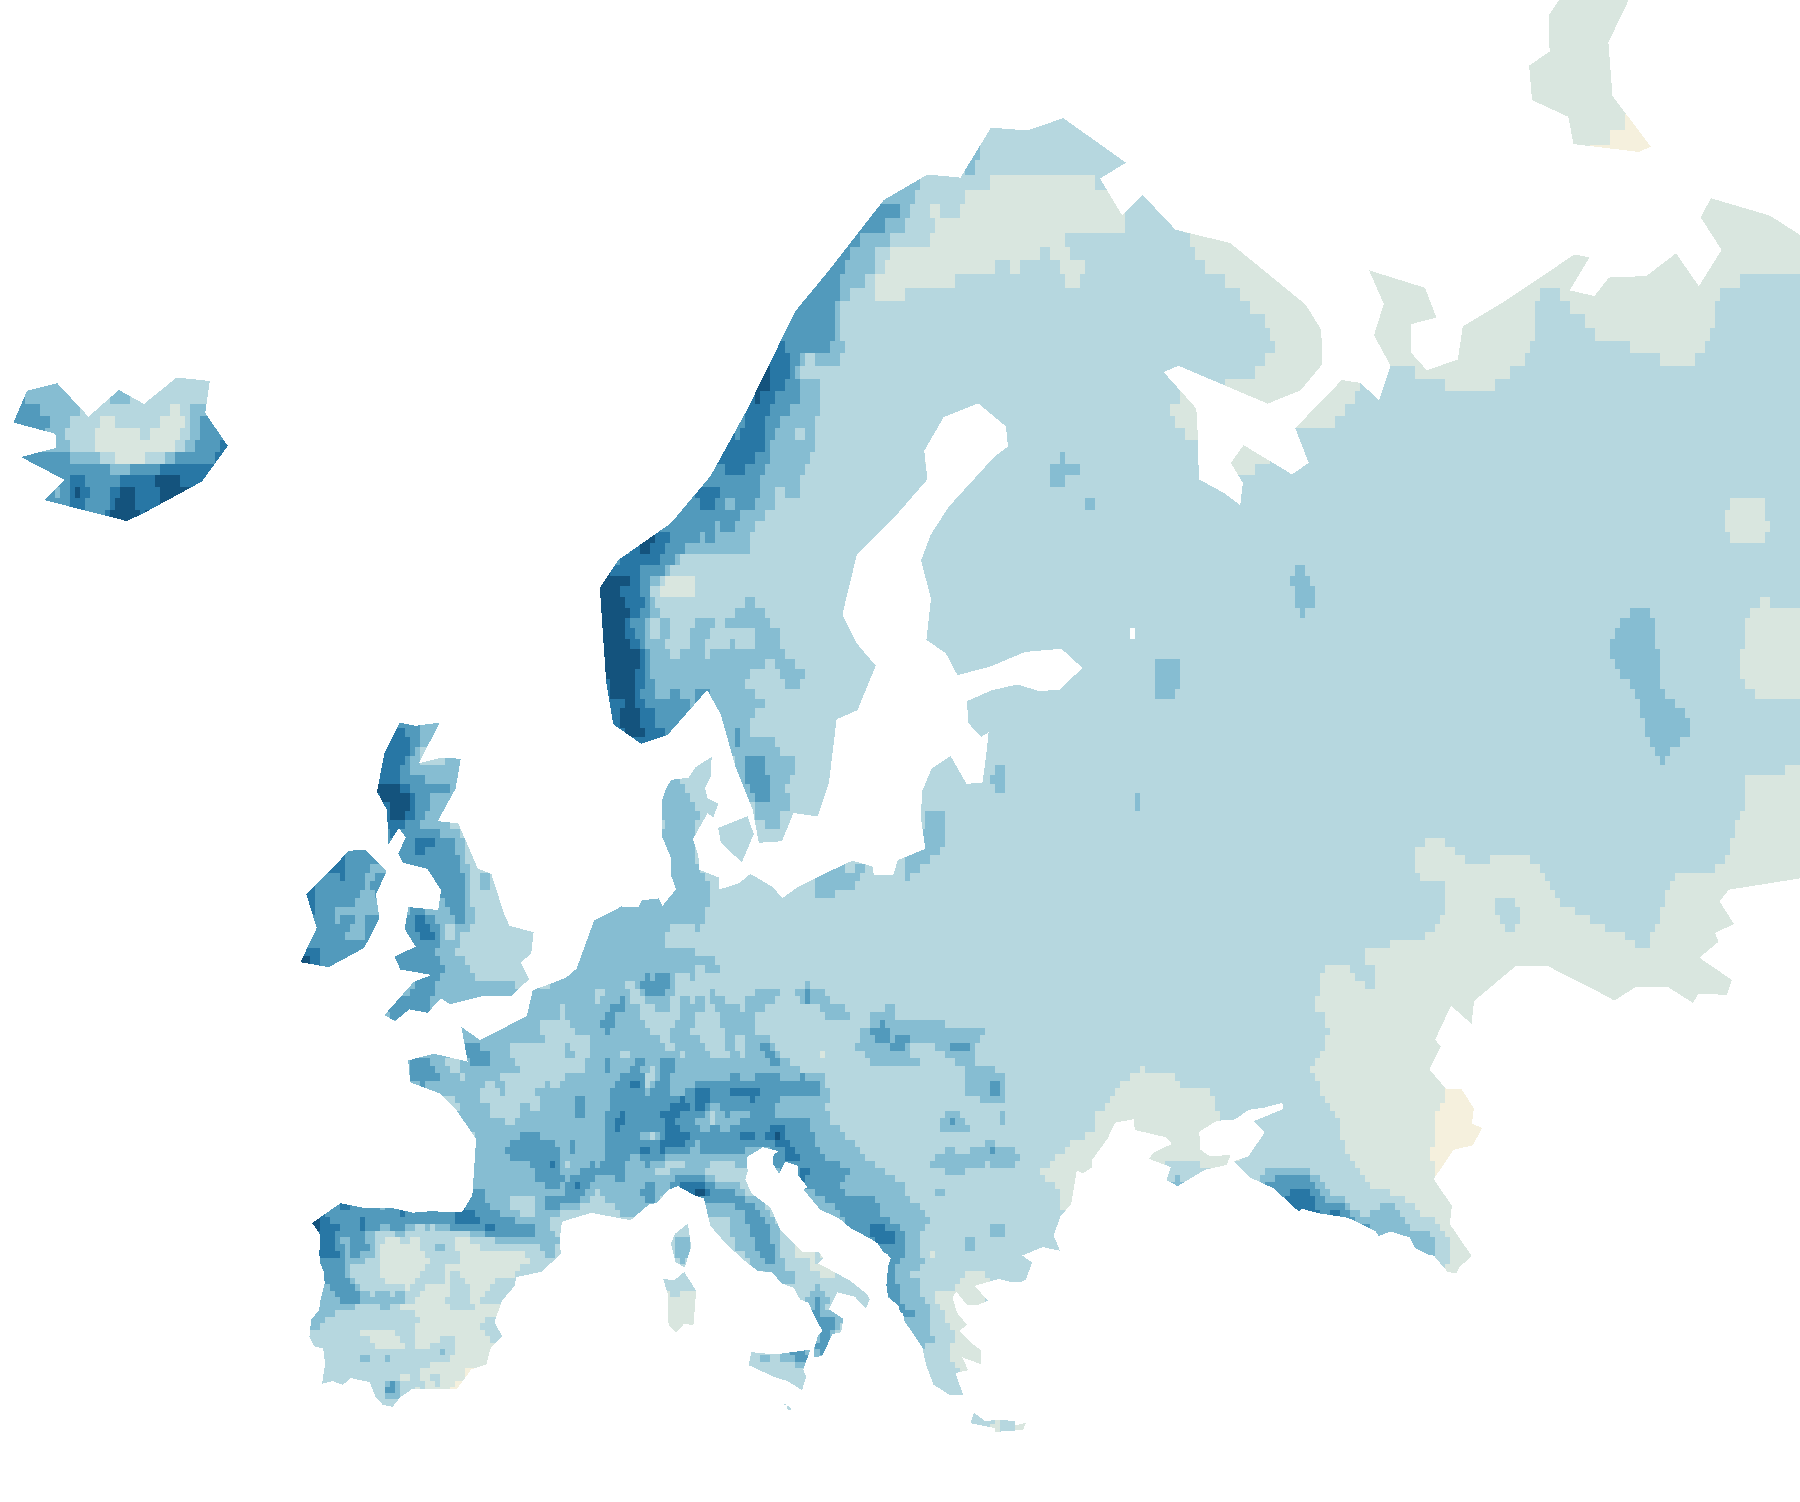
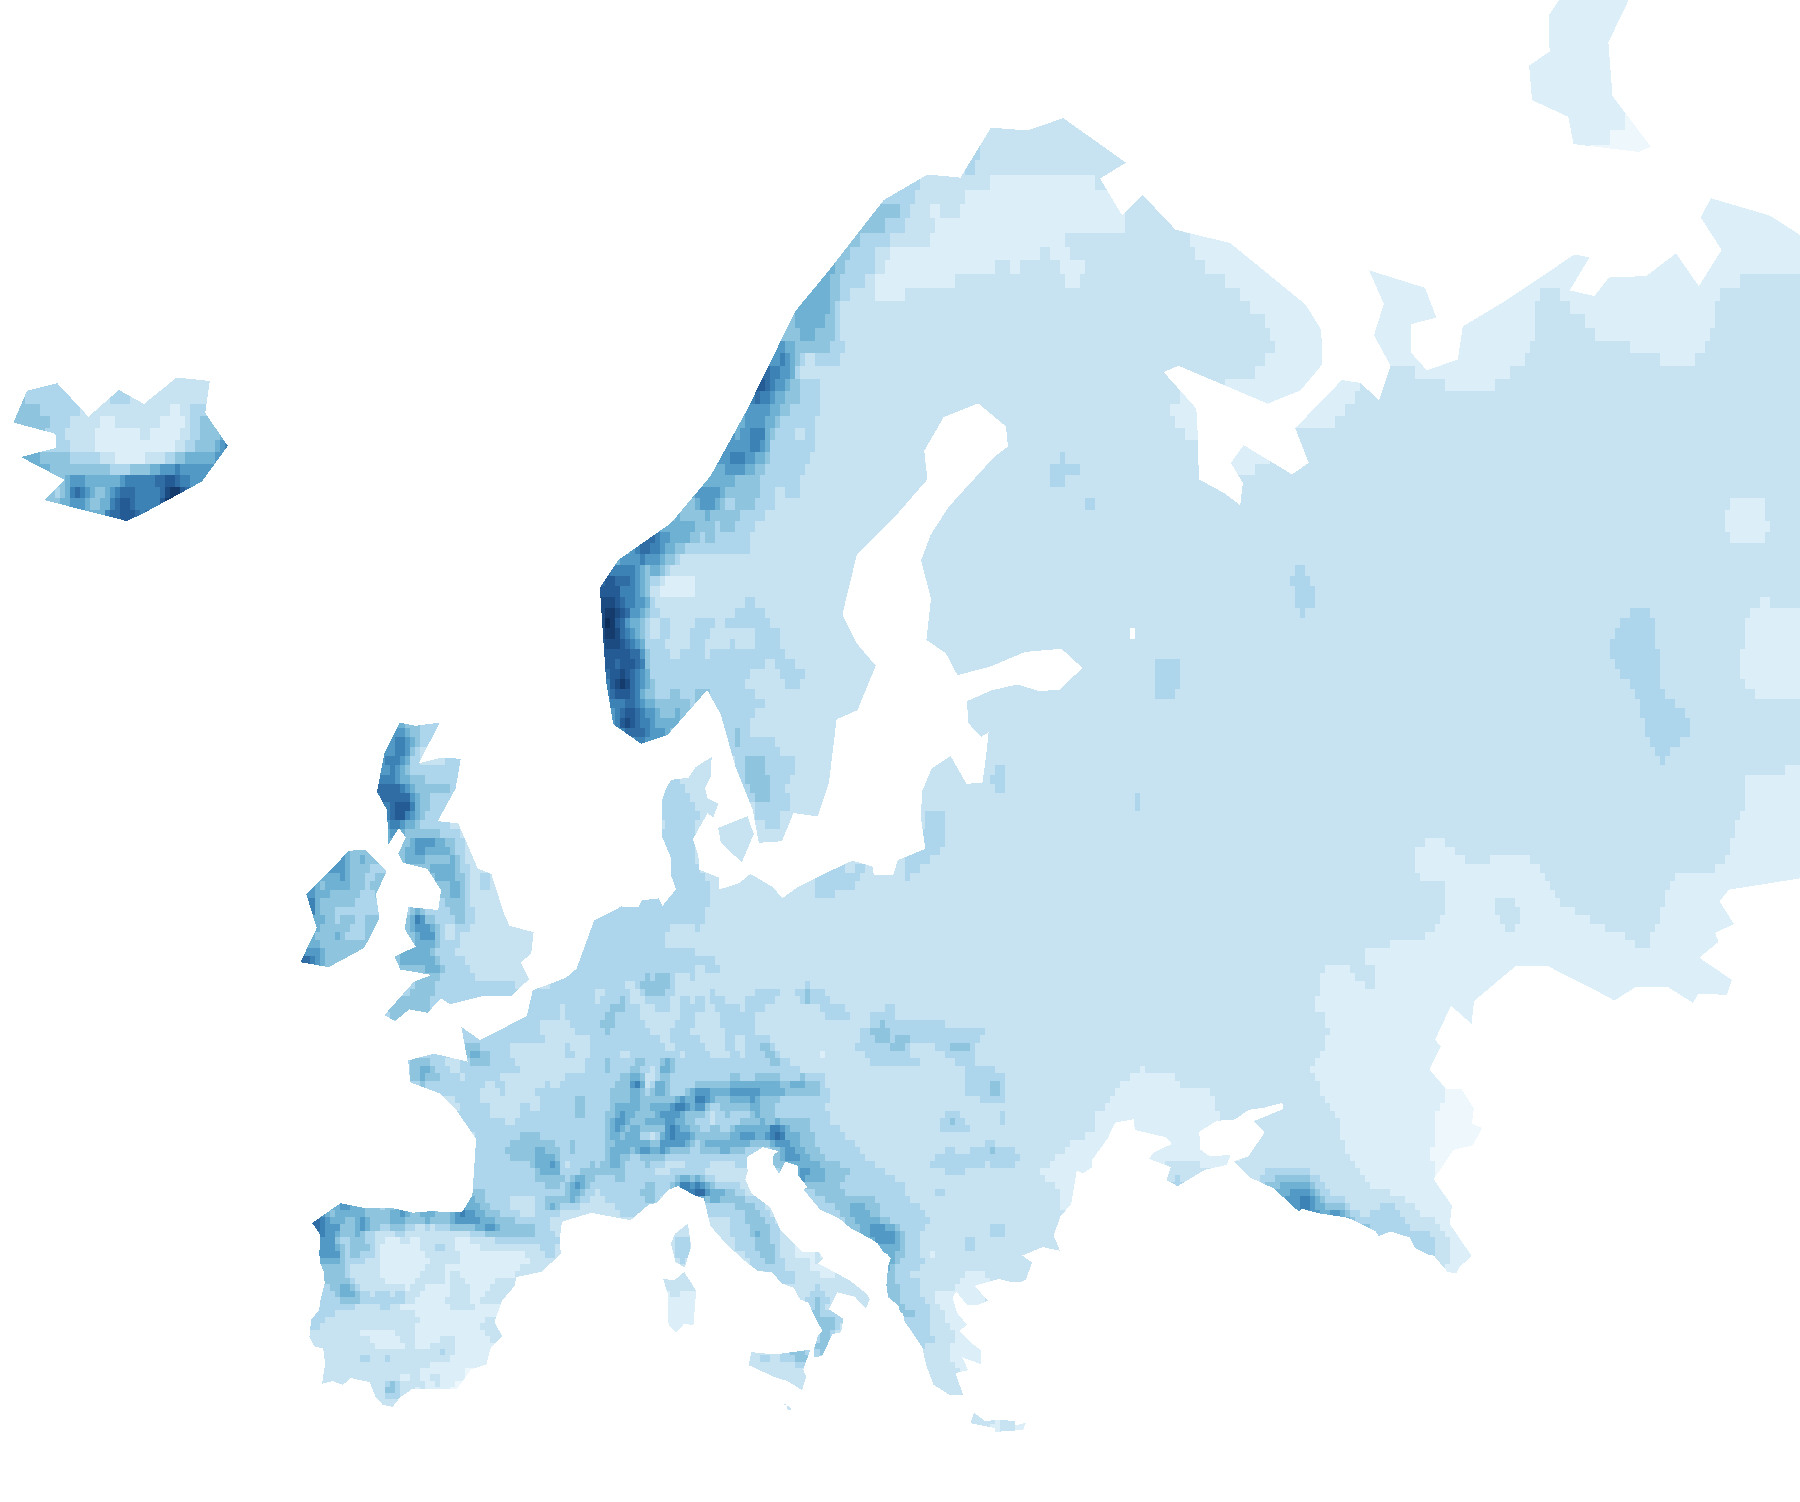
fix(europe): classify annual rainfall in 250 mm blue bands

diff --git a/src/data/atlas/europe/water-reading.ts b/src/data/atlas/europe/water-reading.ts
@@ -1,11 +1,11 @@
 /** GPCC precipitation reading kept distinct from river/lake location and water supply. */
 export const europePrecipitationLayer = {
   id: 'precipitation', field: 'nature' as const, title: '年降水量の分布', period: '1991–2020', unit: 'mm/年',
-  note: 'GPCC/DWDの1991–2020年の月別平年値を12か月合計した分布です。原資料は0.25度格子の雨量計に基づく補間値。表示用の格子に最も近い原格子の値を置き、欠測を補っていません。細かな山地や小国の局地的な降水量、河川流量・地下水量・利用できる水の量は表しません。',
+  note: 'GPCC/DWDの1991–2020年の月別平年値を12か月合計し、250 mmごとの青い段階で表示します。原資料は0.25度格子の雨量計に基づく補間値。表示用の格子に最も近い原格子の値を置き、欠測を補っていません。帯の境界は元格子値からの区分で、測量した等雨量線ではありません。細かな山地や小国の局地的な降水量、河川流量・地下水量・利用できる水の量は表しません。',
   source: 'https://doi.org/10.5676/DWD_GPCC/CLIMAT_V2025_025',
   image: '/assets/atlas/europe/precipitation-v1/precipitation.png', grid: '/assets/atlas/europe/precipitation-v1/values.bin.gz', gridType: 'display' as const, nodata: -1,
-  breaks: [250, 500, 750, 1000, 1500, 2000], colors: ['#f5f0dd', '#d9e6df', '#b6d7df', '#86bdd2', '#529abc', '#2877a5', '#14537d'],
-  labels: ['250未満', '250–500未満', '500–750未満', '750–1,000未満', '1,000–1,500未満', '1,500–2,000未満', '2,000以上'],
+  breaks: Array.from({length:12},(_,i)=>(i+1)*250), colors: ['#eef7fb','#dceef7','#c7e3f2','#add5eb','#8fc4df','#6fb1d3','#529ac5','#3d82b4','#2f6da4','#245b94','#1c4b82','#153b6d','#0c2d57'],
+  labels: [...Array.from({length:12},(_,i)=>i===0?'250未満':`${(i*250).toLocaleString('ja-JP')}–${((i+1)*250).toLocaleString('ja-JP')}未満`),'3,000以上'],
 };
 
 export const europePrecipitationReading = {
